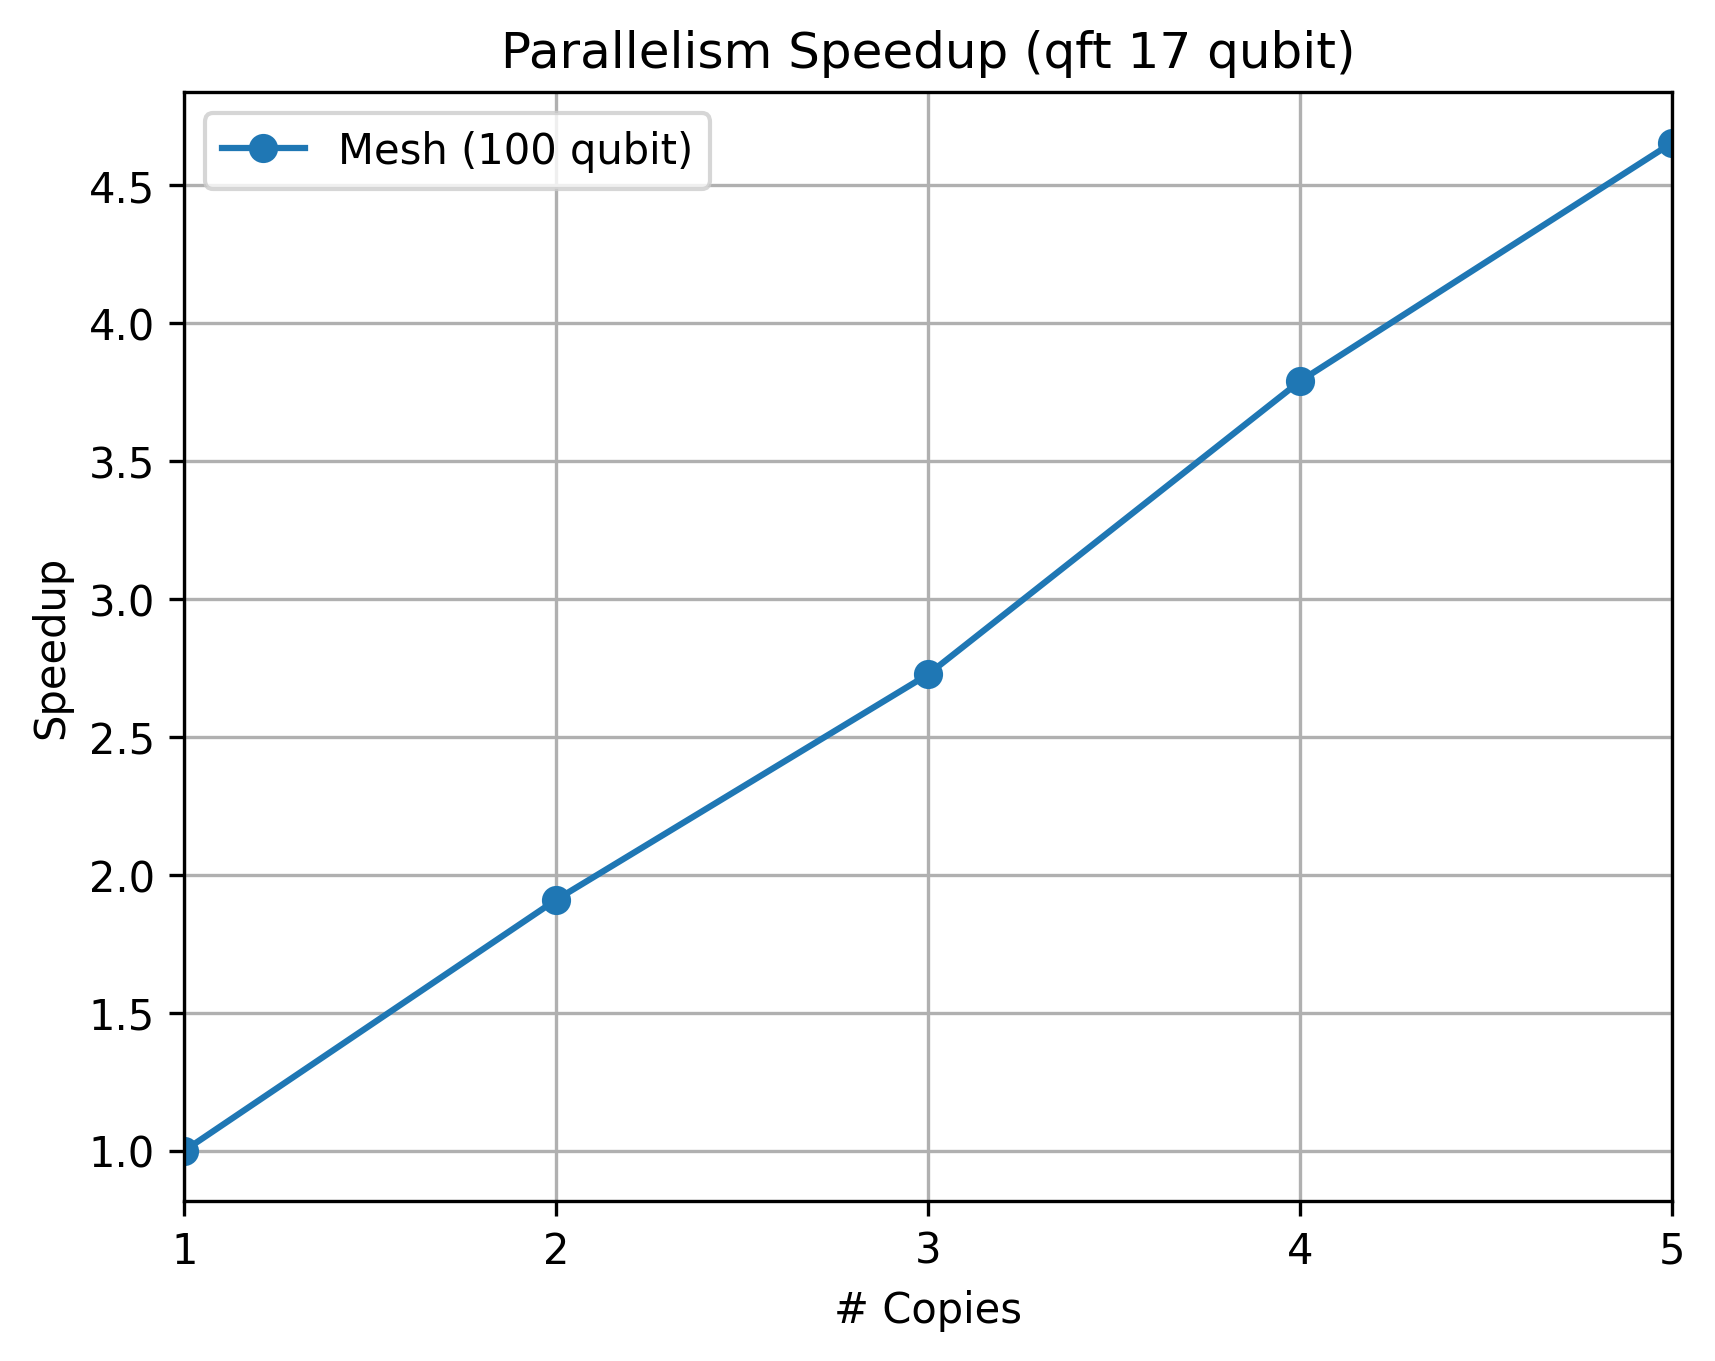
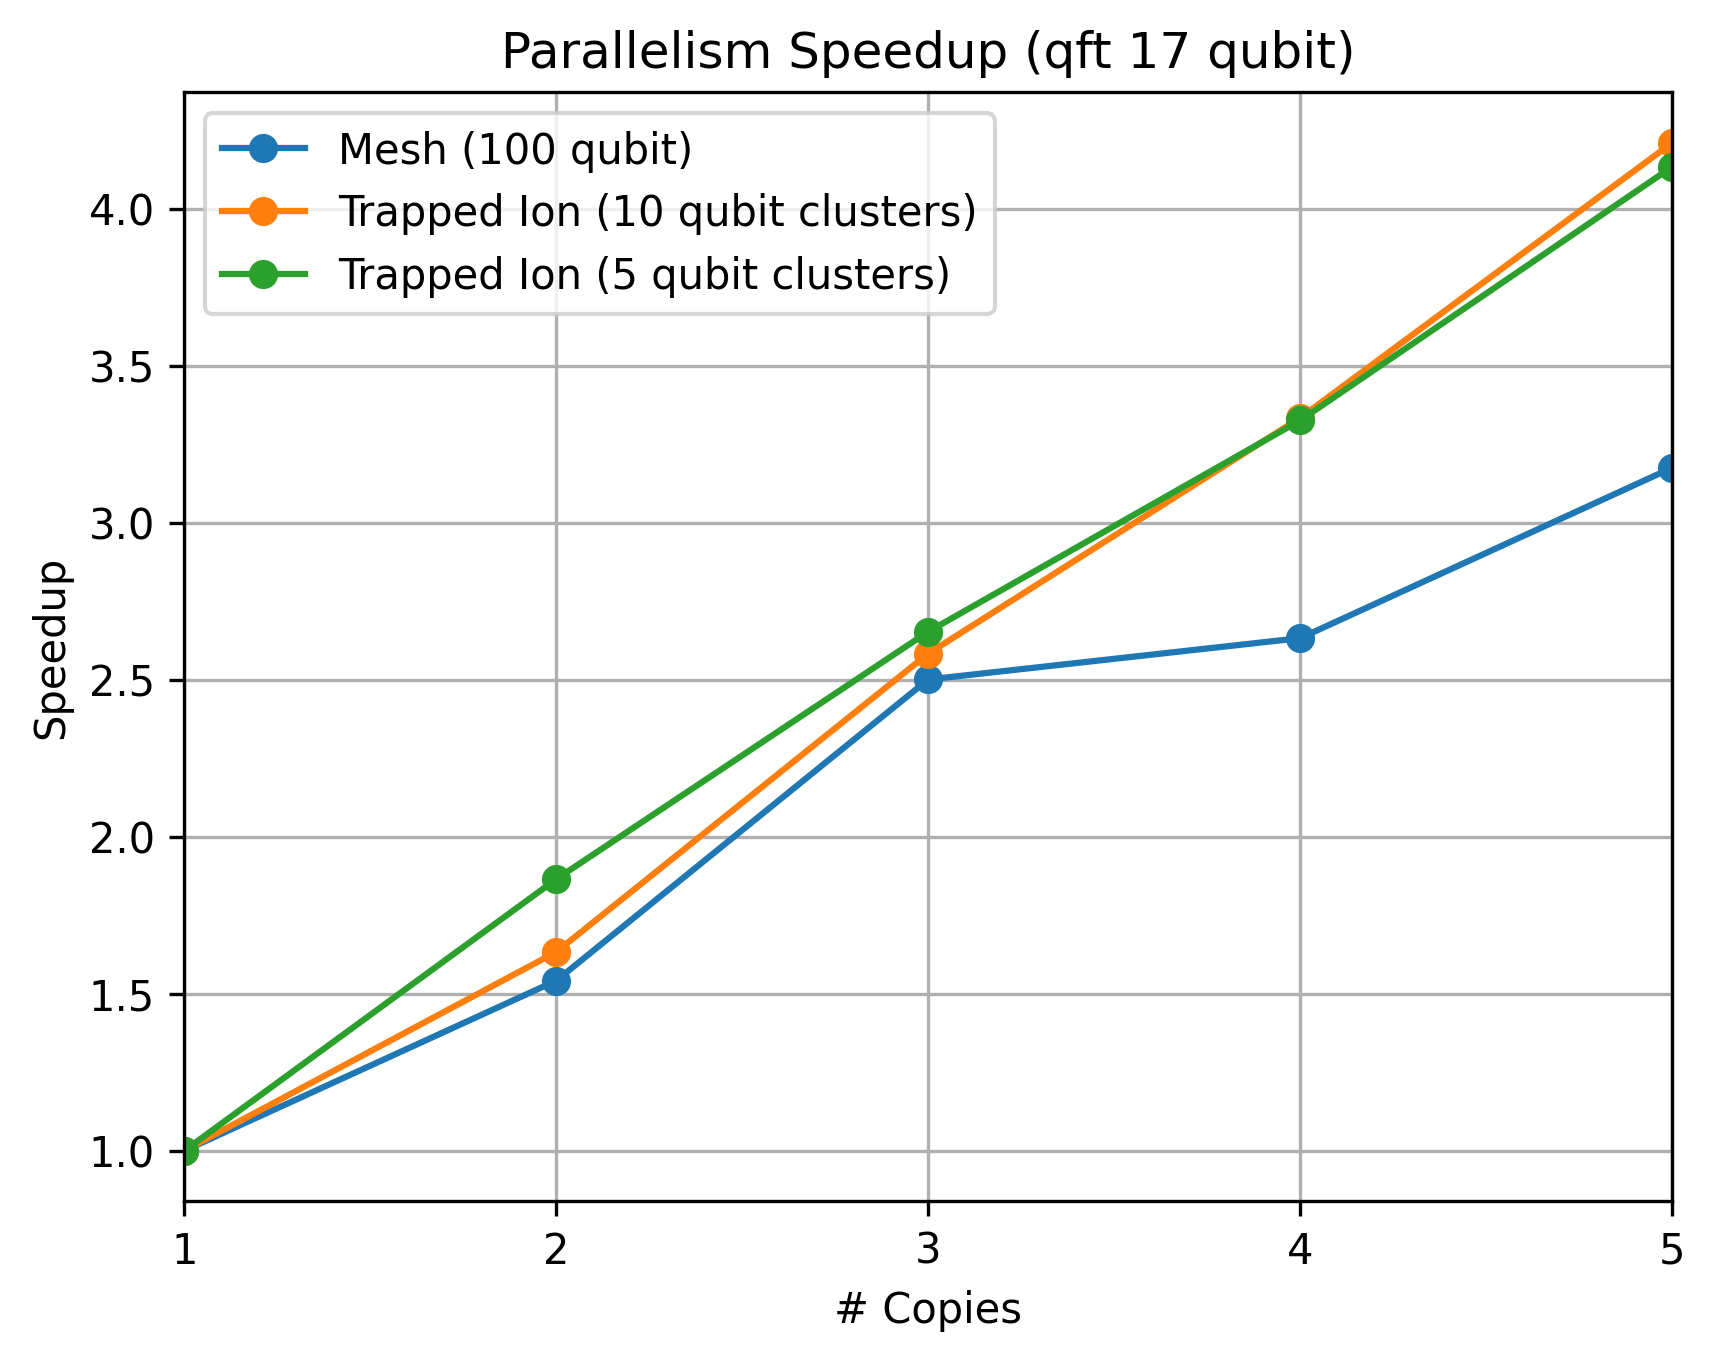
Fully working

diff --git a/test_progs/parallelism_analysis_swamitified.py b/test_progs/parallelism_analysis_swamitified.py
@@ -46,10 +46,6 @@ for runcount in range(5,21):
     test_q_cnt = runcount                 #Number qubits for benchmark circuit
 
 
-
-
-
-
     #print a log
     fname = "logs/" +str(datetime.now())[:10] + '-' + str(datetime.now())[11:13]+ '-' + str(datetime.now())[14:16] + "-" + benchmark + "-" + str(test_q_cnt) +"-qubit"+ ".log"
 
@@ -57,7 +53,7 @@ for runcount in range(5,21):
 
     f = open(fname, 'w')
     print("    +----------------------------------------------+", file=f)
-    print("    |    Resource and Fidelity Utility for QAOA    |", file=f)
+    print("    |   CHRONOSCOPE: Quantum Resource Estimation   |", file=f)
     print("    |                                              |", file=f)
     print("    |          CS639 FINAL COURSE PROJECT          |", file=f)
     print("    +----------------------------------------------+", file=f)
@@ -212,6 +208,8 @@ for runcount in range(5,21):
         #replace with TVD (?)
         estimated_average_fidelity = (fidelities[0]**(oneqgate_p_circ/max_possible_copies) * fidelities[1]**((cx_count + swap_overhead*3)/max_possible_copies) * fidelities[2]**(benchmark_qubits)) * calculate_idling_error(cost, coherence_times[0], coherence_times[1])**(benchmark_qubits/max_copies)
 
+        best_cost += delay[2]
+
         result.append([
             id,
             benchmark_name,
@@ -274,7 +272,7 @@ for runcount in range(5,21):
 
 
     test_mark = get_benchmark(benchmark_name=benchmark, level=2, circuit_size=test_q_cnt)
-    delay = [0.02, .2, 200]        #us
+    delay = [10, 100, 1000]        #us
     fdlt = [0.999, .985, .97]   # %
     ctimes = [.1, .1] #ms
 
@@ -289,6 +287,7 @@ for runcount in range(5,21):
     connectivity_maps = [edges_mesh, edges_trapped_ion_10_10, edges_trapped_ion_5_20]
     connectivity_maps_ascii = ["Mesh (100 qubit)", "Trapped Ion (10 qubit clusters)", "Trapped Ion (5 qubit clusters)"]
     ascii_index = 0
+    all_runtime_results = []
     for connectivity_map in connectivity_maps:
         print()
         print('', file = f)
@@ -372,9 +371,12 @@ for runcount in range(5,21):
                 ])
             
         results_single = []
+        ascii_index += 1
             
         print(tabulate(runtime_results, headers=runtime_headers, tablefmt="grid"))
         print(tabulate(runtime_results, headers=runtime_headers, tablefmt="grid"), file=f)
+        all_runtime_results.extend(runtime_results)
+
         
 
     ##Chat GPT stuff below
@@ -386,6 +388,7 @@ for runcount in range(5,21):
     architecture_names = connectivity_maps_ascii
     grouped_runtime_results = []
     cursor = 0
+    runtime_results = all_runtime_results
 
     # Calculate how many runs belong to each architecture
     runs_per_architecture = [1 + max_copies - 1 for _ in architecture_names]  # 1 no-parallel + (max_copies - 1) parallel runs
